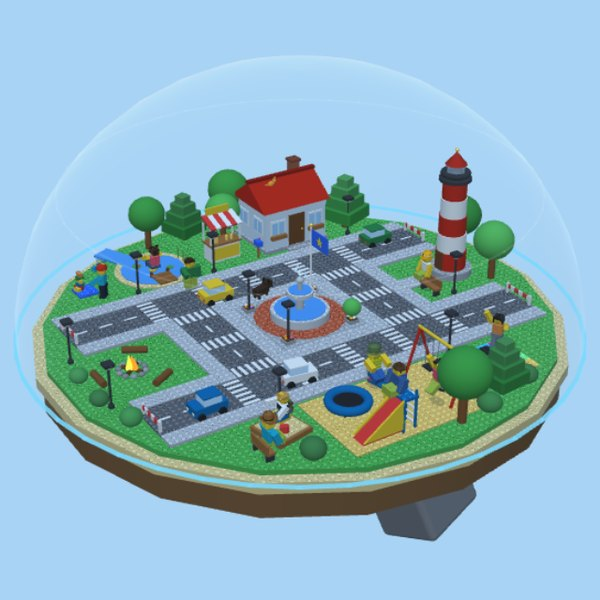
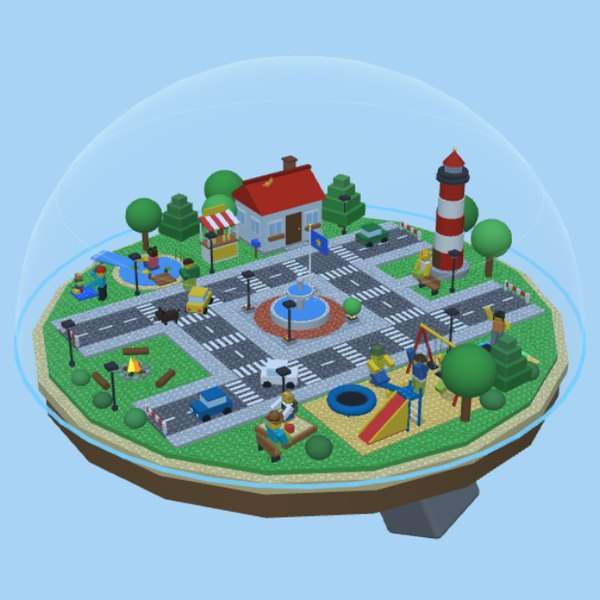
Dome: no shield badge on top
The round shield icon the overlay drew over the top of the dome is gone,
on every page the dome appears. The camera no longer keeps room above the
dome for it, so the world fills its bubble a little more. The poster is
re-rendered to match.

Claude-Session: https://claude.ai/code/session_01LFebKHo6ybziViZkW49mLT

diff --git a/static/js/family/haven.js b/static/js/family/haven.js
@@ -2331,9 +2331,7 @@
   WP.fitCamera = function () {
     var rd = this.renderer, cfg = this.cfg, R = this.R;
     var aspect = rd.aspect || 1;
-    // room above the dome for the shield badge the overlay draws there (about
-    // 34 CSS pixels), whatever the size of the picture
-    var room = Math.min(0.3, 36 / Math.max(60, (this.cssH || 300) / 2));
+    var room = 0;
     if (this.fit && this.fit.aspect === aspect && this.fit.room === room && this.fit.yaw === Math.round(this.camYaw * 50)) return this.fit;
     var Rd = this.domeR(), top = Rd * 0.92, bottom = this.round ? -25 : -(this.mode === 'mini' ? 12 : 22);
     var pts = [];
@@ -3235,11 +3233,6 @@
     ctx.clearRect(0, 0, W, H);
     ctx.textBaseline = 'middle';
     ctx.textAlign = 'center';
-    // the shield badge on top of the dome
-    if (this.domeK > 0.6) {
-      var top = this.project([0, this.domeR() * 0.92 * this.domeK + 0.2, 0]);
-      if (top) this.drawBadge(ctx, top.x, top.y);
-    }
     // what kids are saying
     ctx.font = 'bold 12px Verdana, ' + this.font;
     for (i = 0; i < this.kids.length; i++) {
@@ -3267,24 +3260,6 @@
     ctx.font = 'bold 12px Verdana, ' + this.font;
     for (i = 0; i < this.threats.length; i++) this.drawThreat(ctx, this.threats[i], W, H);
     if (this.mini) this.drawMini(ctx, W, H);
-  };
-  WP.drawBadge = function (ctx, x, y) {
-    var s = 1 + this.badgeHit * 0.4 + Math.sin(this.t * 2) * 0.03;
-    ctx.save();
-    ctx.translate(x, y - 16);
-    ctx.scale(s, s);
-    ctx.beginPath(); ctx.arc(0, 0, 15, 0, TAU);
-    var g = ctx.createLinearGradient(0, -15, 0, 15);
-    g.addColorStop(0, '#5fa8ea'); g.addColorStop(1, '#1d5fae');
-    ctx.fillStyle = g; ctx.fill();
-    ctx.lineWidth = 2; ctx.strokeStyle = '#ffffff'; ctx.stroke();
-    ctx.beginPath();
-    ctx.moveTo(0, -8); ctx.lineTo(7, -5); ctx.lineTo(6, 3); ctx.quadraticCurveTo(4, 8, 0, 10);
-    ctx.quadraticCurveTo(-4, 8, -6, 3); ctx.lineTo(-7, -5); ctx.closePath();
-    ctx.fillStyle = '#ffffff'; ctx.fill();
-    ctx.beginPath(); ctx.moveTo(-3, 1); ctx.lineTo(-0.5, 3.6); ctx.lineTo(3.6, -1.6);
-    ctx.strokeStyle = '#1d5fae'; ctx.lineWidth = 2.2; ctx.lineCap = 'round'; ctx.lineJoin = 'round'; ctx.stroke();
-    ctx.restore();
   };
   WP.bubble = function (ctx, x, y, text, bg, ink, alpha) {
     var w = ctx.measureText(text).width + 14, h = 20;

diff --git a/static/css/family/haven.css b/static/css/family/haven.css
@@ -24,7 +24,7 @@
    holds, centred (haven.js frames the dome to fit it).  Only the 3D view is
    clipped to the circle.  The overlay is not -- the messages that fly at the
    shield come in from outside the bubble and bounce off, and speech bubbles
-   and the shield badge can cross its edge.  A glassy ring round it slowly
+   can cross its edge.  A glassy ring round it slowly
    brightens and fades, a sheen catches the light, the bubble bobs gently,
    and a soft shadow under it shrinks as it rises.  (Still, for anyone who
    asks for less motion.) */
